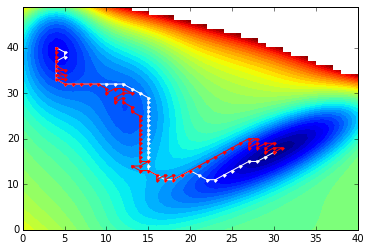
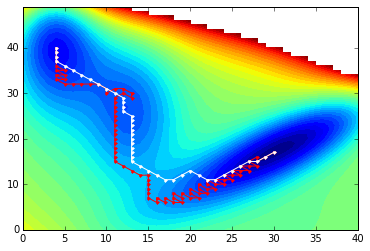
Compute the shortest path on a grid using python: Distance changed

Changed region(s): [[0.1486, 0.1673, 0.773, 0.8088], [0.5649, 0.6135, 0.5946, 0.6414], [0.5351, 0.6414, 0.5649, 0.6693]]

diff --git a/2016/08/31/compute_the_shortest_path_on_a_grid_using_python.html b/2016/08/31/compute_the_shortest_path_on_a_grid_using_python.html
@@ -216,10 +216,14 @@ with diagonal included.</p>
 <p><img src="/assets/shortest_path_files/shortest_path_7_1.png" alt="png" /></p>
 
 <p>I’ve slightly modified the <code class="highlighter-rouge">dijkstra</code> algorithm to change the metric between
-nodes: <code class="highlighter-rouge">max((V[e]-V[cc]), 0)</code> instead of <code class="highlighter-rouge">(V[e]-V[cc])**2</code>.</p>
+nodes: <code class="highlighter-rouge">(V[e]-V[cc])</code> instead of <code class="highlighter-rouge">(V[e]-V[cc])**2</code>.</p>
+
+<p>With that distance, negative distances exists.</p>
 
 <p>Then, I added a metropolis criteria to accept the next step with a given
-probability: <code class="highlighter-rouge">m[e]/d &gt; numpy.random.random()</code>:</p>
+probability: <code class="highlighter-rouge">m[e]/d &gt; numpy.random.random()</code>, but we should take care of the
+negative distances, thats why I’ve changed the distance for that function to:
+<code class="highlighter-rouge">[max((V[e]-V[cc]), 0)</code></p>
 
 <figure class="highlight"><pre><code class="language-python" data-lang="python"><span class="k">def</span> <span class="nf">dijkstra_metropolis</span><span class="p">(</span><span class="n">V</span><span class="p">):</span>
     <span class="n">mask</span> <span class="o">=</span> <span class="n">V</span><span class="o">.</span><span class="n">mask</span>
